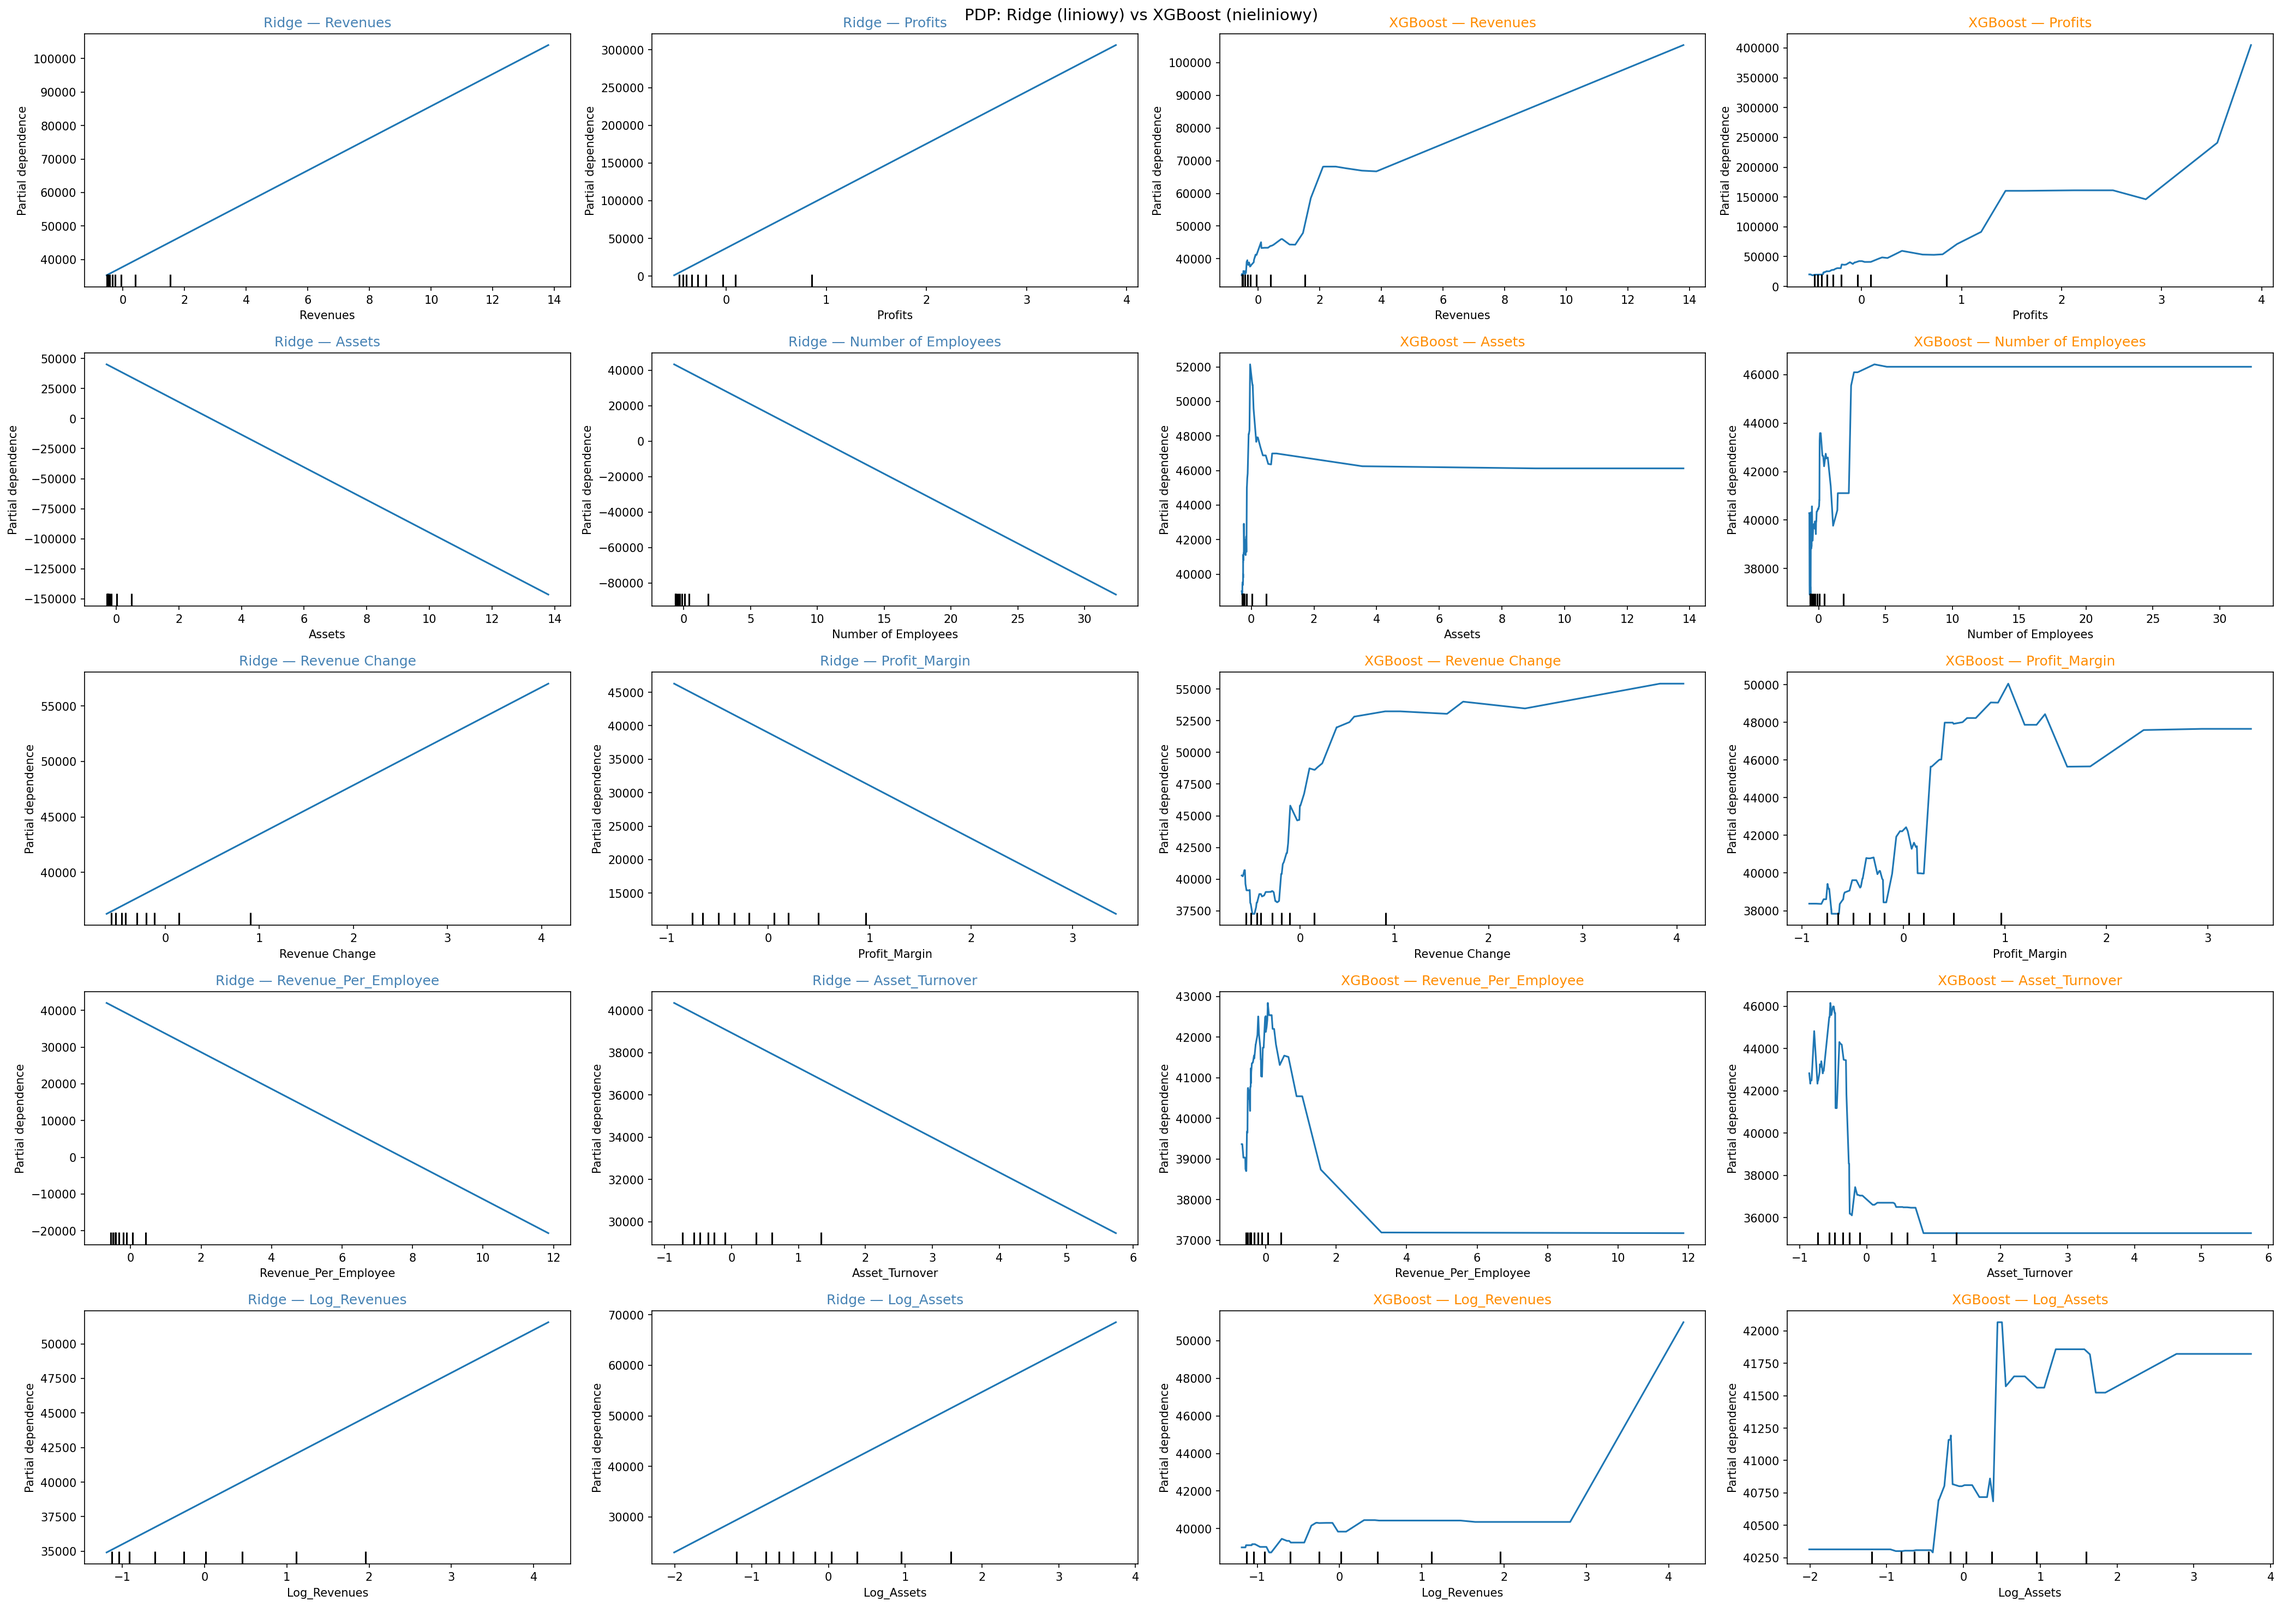
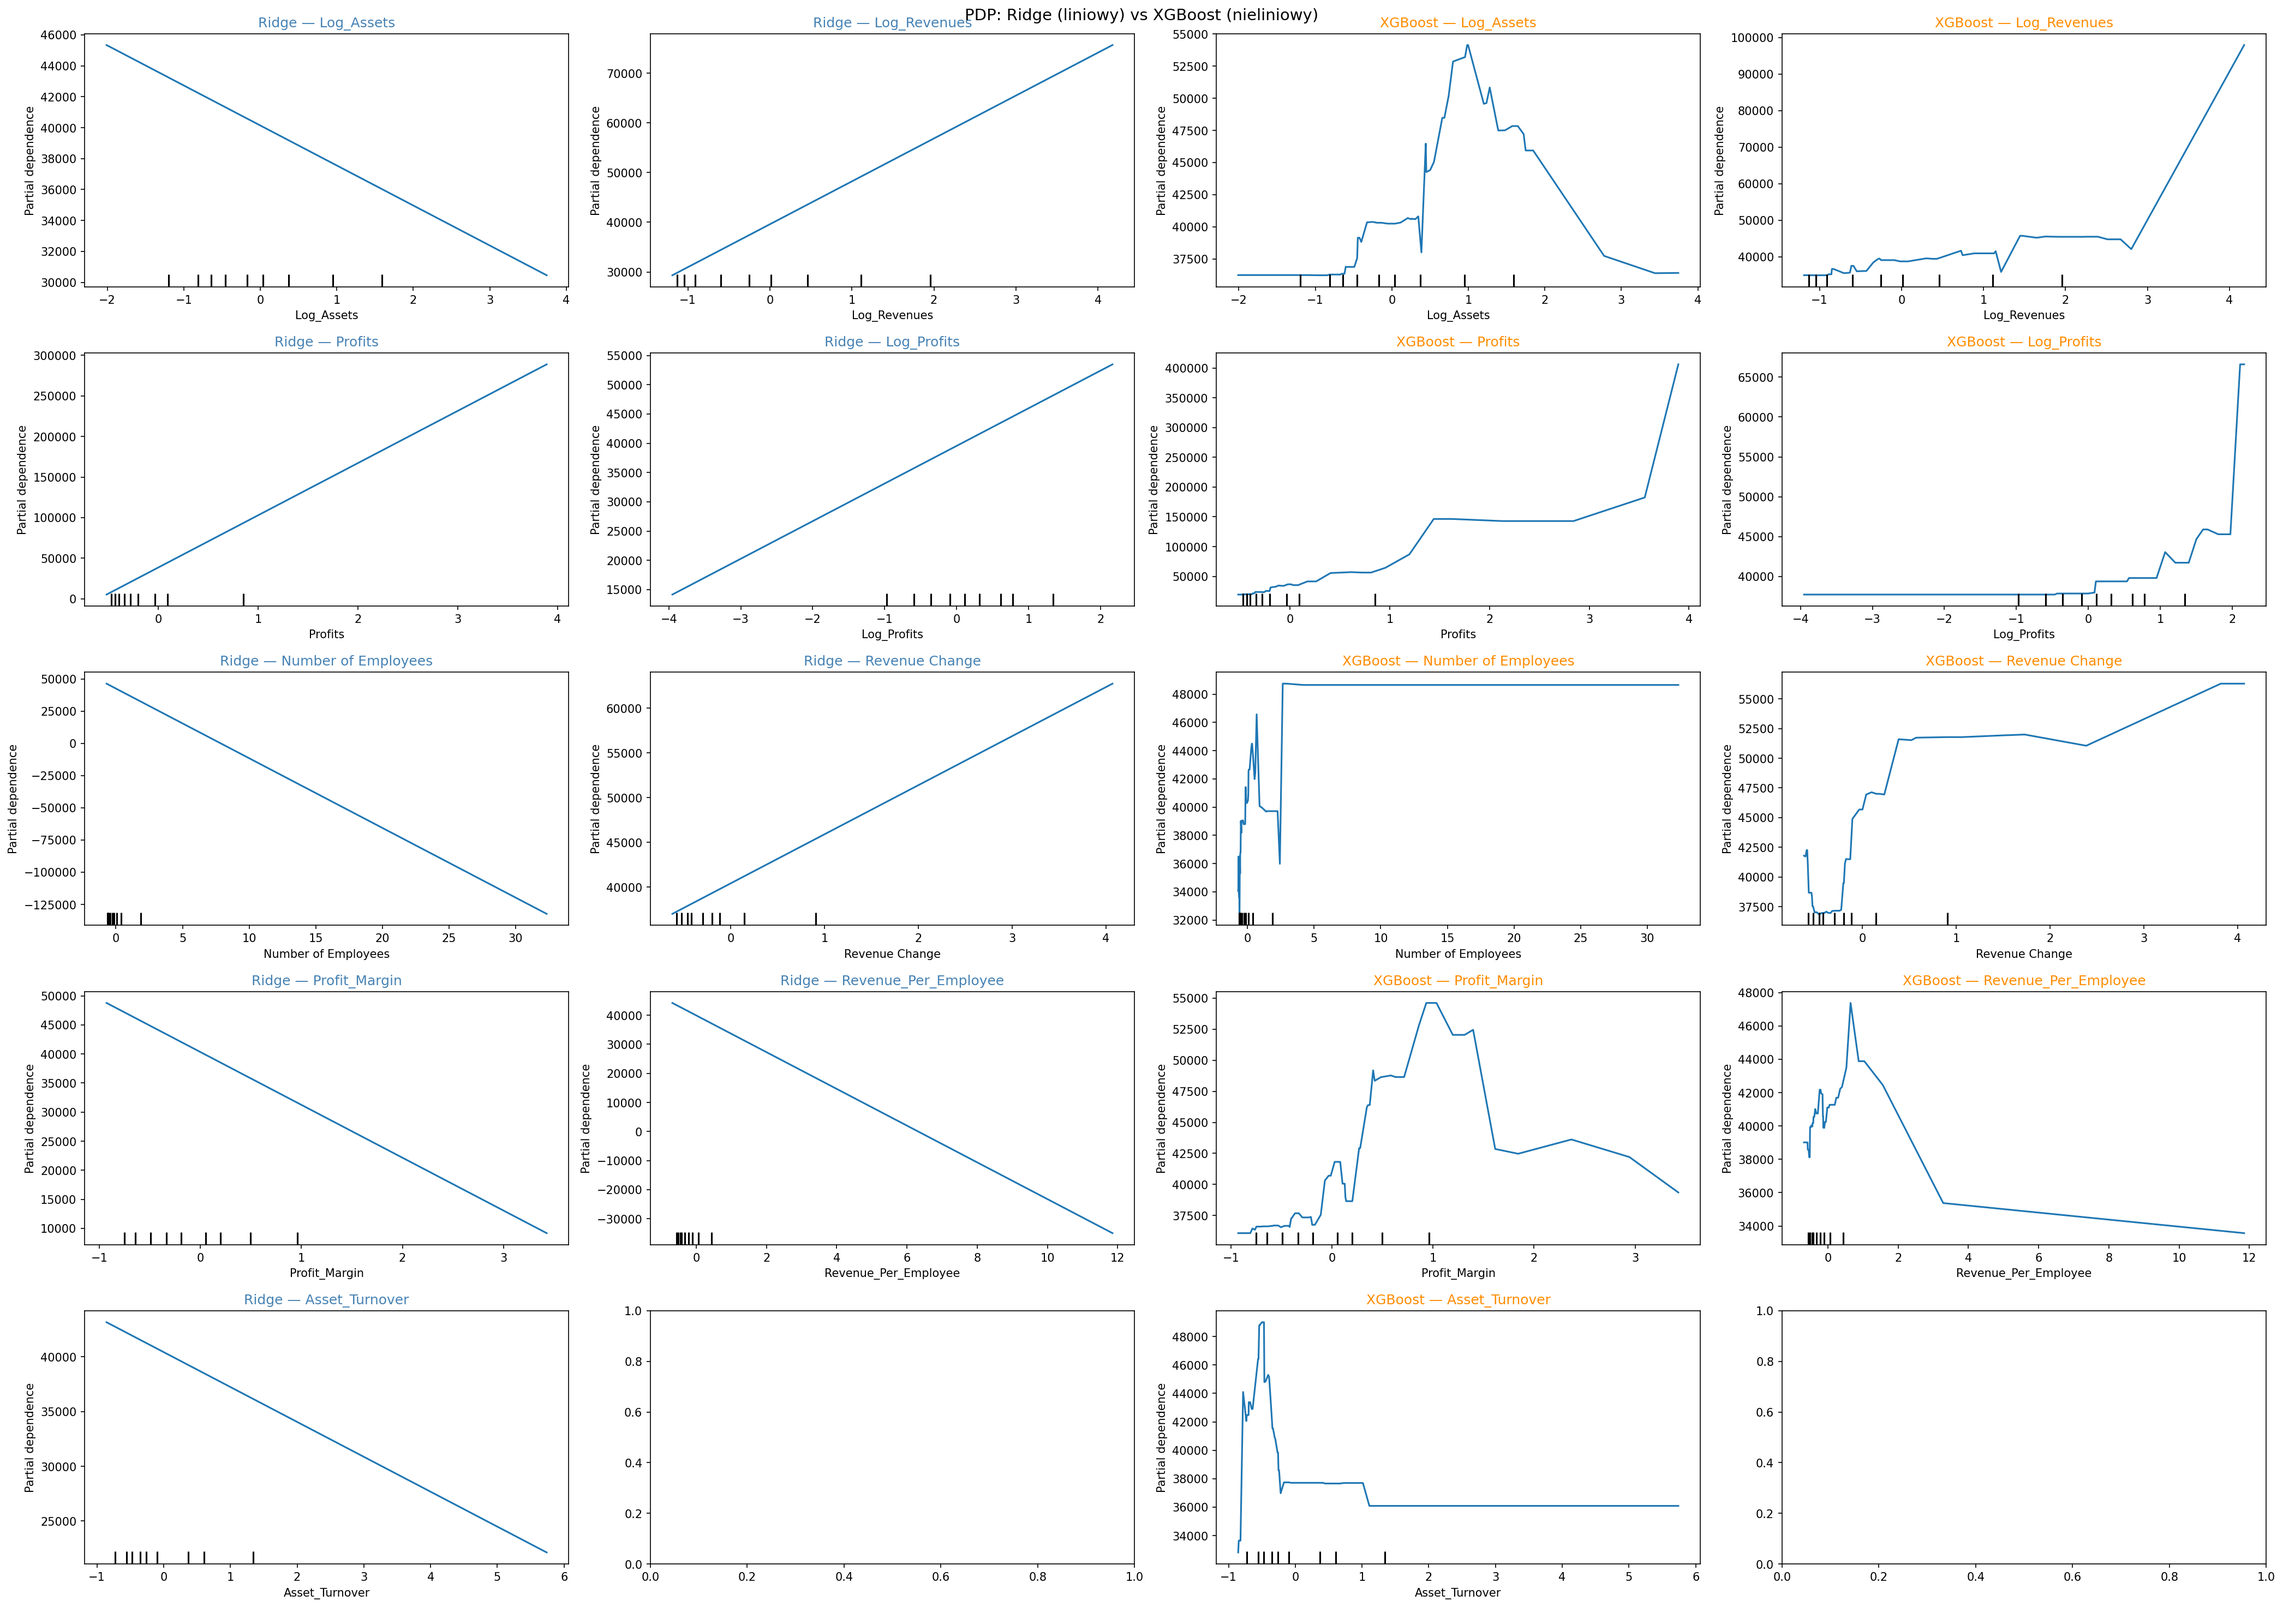
ostatni

diff --git a/users/apapas/src/preprocessing/preprocessing.py b/users/apapas/src/preprocessing/preprocessing.py
@@ -15,9 +15,10 @@ def run_preprocessing(df):
     df["Rank_Change"] = df["Previous Rank"] - df["Rank"]
     df["Log_Revenues"] = np.log1p(df["Revenues"])
     df["Log_Assets"] = np.log1p(df["Assets"])
+    df["Log_Profits"] = np.sign(df["Profits"]) * np.log1p(df["Profits"].abs())
 
     print("Nowe cechy: Profit_Margin, Revenue_Per_Employee, Asset_Turnover, "
-          "Rank_Change, Log_Revenues, Log_Assets")
+          "Rank_Change, Log_Revenues, Log_Assets, Log_Profits")
 
     # usuwanie brakow i inf
     df = df.replace([np.inf, -np.inf], np.nan)
@@ -25,9 +26,9 @@ def run_preprocessing(df):
     print(f"Po usunieciu brakow: {len(df)} wierszy")
 
     # przygotowanie X i y
-    features = ["Revenues", "Profits", "Assets", "Number of Employees",
-                "Revenue Change", "Profit_Margin", "Revenue_Per_Employee",
-                "Asset_Turnover", "Log_Revenues", "Log_Assets"]
+    features = ["Log_Assets", "Log_Revenues", "Profits", "Log_Profits",
+                "Number of Employees", "Revenue Change", "Profit_Margin",
+                "Revenue_Per_Employee", "Asset_Turnover"]
 
     df_model = df[features + ["Market Value"]].dropna()
     X = df_model[features]
